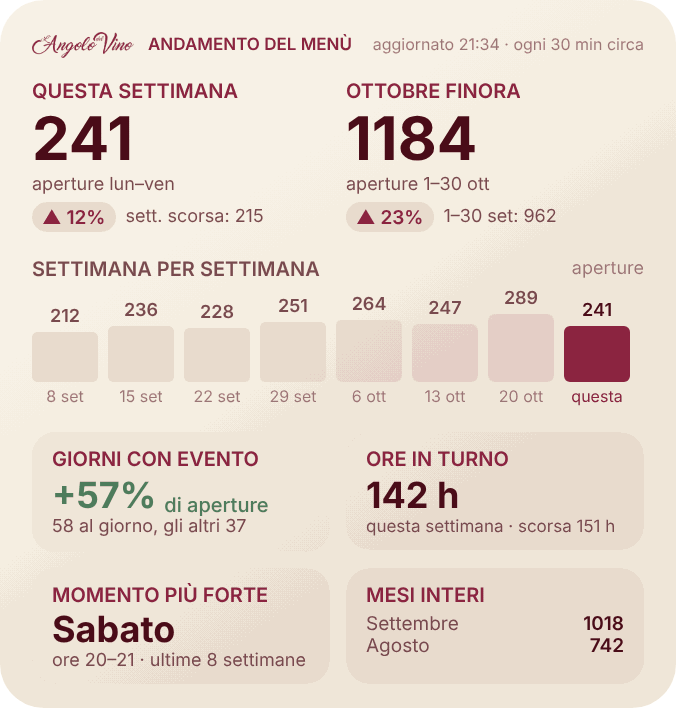
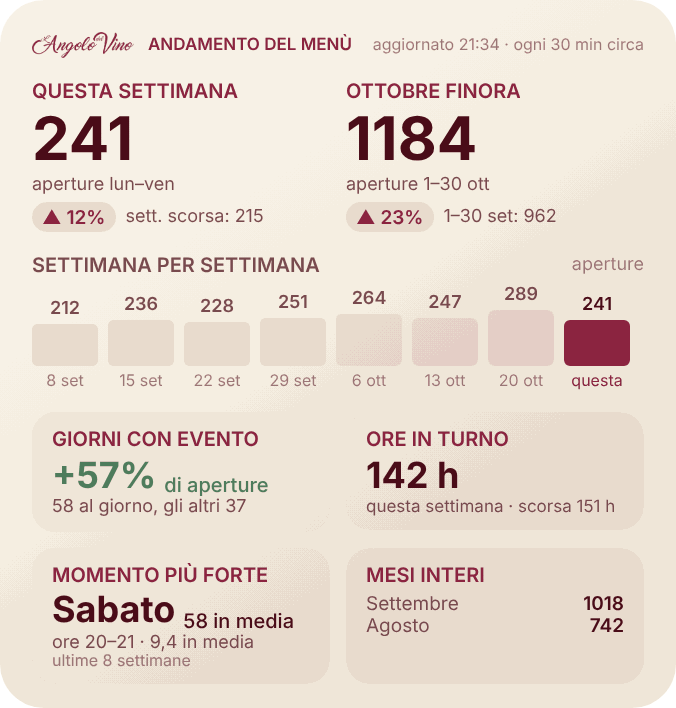
Versione 0.33.2: «Momento più forte» con la media delle aperture
Il giorno più forte si sceglie per media (aperture diviso quante volte quel giorno c'è
stato nel periodo), non per totale; accanto la media, e l'ora più forte con la sua media
al giorno. Sotto, piccolo, il periodo.

Claude-Session: https://claude.ai/code/session_01EJxiVCETf75PpRm3fVmtdi

diff --git a/public/widget/angolo.js b/public/widget/angolo.js
@@ -1568,7 +1568,7 @@ function wAndamento(fam, d, v) {
   // Il mese: l'ultimo finito contro quello prima (mai un mese appena iniziato contro uno intero).
   const m = d.mese;
   blocco(`${m.nome} finora`, m.n, `aperture ${m.dal || m.giorni}`, m, m.giorniPrima, m.confrontoDa ? `confronto da ${m.confrontoDa}` : `${m.nomePrima} non contato`);
-  w.addSpacer(stretto ? 8 : 12);
+  w.addSpacer(stretto ? 6 : 10);
 
   // 2 · Settimana per settimana: il numero sopra ogni barra, la data sotto; quella in corso si chiama «questa».
   const st = riga(w);
@@ -1582,7 +1582,7 @@ function wAndamento(fam, d, v) {
     const n = d.settimane.length;
     const sg = 5;
     const bw = Math.floor((CW - sg * (n - 1)) / n);
-    const hMax = stretto ? 24 : 34;
+    const hMax = stretto ? 20 : 28;
     const max = Math.max(1, ...d.settimane.map((x) => x.n));
     const br = riga(w);
     br.bottomAlignContent();
@@ -1605,7 +1605,7 @@ function wAndamento(fam, d, v) {
       centro(x.inCorso ? "questa" : x.da, F.testo(8), x.inCorso ? C.oro : C.crema3);
     });
   }
-  w.addSpacer(stretto ? 8 : 12);
+  w.addSpacer(stretto ? 6 : 10);
 
   // 3 · Quattro risposte brevi, ognuna con il suo periodo.
   const cella = (r, tit, val, sotto, url, coloreVal = C.crema, unita = "") => {
@@ -1640,7 +1640,10 @@ function wAndamento(fam, d, v) {
   w.addSpacer(gap);
   const b = riga(w);
   b.topAlignContent();
-  const forte = cella(b, "Momento più forte", d.giornoForte || "—", d.oraForte ? `ore ${d.oraForte} · ${d.periodo}` : d.periodo, "/statistiche#quando");
+  // Il giorno e l'ora più forti con la loro media di aperture; sotto, piccolo, il periodo.
+  const oraTesto = d.oraForte ? `ore ${d.oraForte}${d.oraMedia ? ` · ${d.oraMedia} in media` : ""}` : "";
+  const forte = cella(b, "Momento più forte", d.giornoForte || "—", oraTesto || d.periodo, "/statistiche#quando", C.crema, d.giornoMedia ? `${d.giornoMedia} in media` : "");
+  if (oraTesto) testo(forte, d.periodo, F.testo(8), C.crema3);
   b.addSpacer(gap);
   // I mesi finiti, a consuntivo: nome a sinistra, aperture a destra.
   const mi = b.addStack();
@@ -1670,7 +1673,7 @@ function wAndamento(fam, d, v) {
   mi.addSpacer();
   forte.addSpacer();
   // Stessa altezza per i due riquadri della riga (quanto serve a tre mesi, o due sui telefoni piccoli).
-  const alto = treMesi ? 65 : stretto ? 52 : 58;
+  const alto = treMesi ? 74 : stretto ? 62 : 68;
   forte.size = new Size(cw, alto);
   mi.size = new Size(cw, alto);
   return w;

diff --git a/src/lib/widget-data.ts b/src/lib/widget-data.ts
@@ -655,8 +655,16 @@ export async function dataAndamento() {
   const avg = (list: string[]) => (list.length ? Math.round(list.reduce((s, d) => s + count(d), 0) / list.length) : null);
   const conEvento = avg(past.filter((d) => evDays.has(d)));
   const senza = avg(past.filter((d) => !evDays.has(d)));
-  const bestWd = byWd.reduce<{ w: number; n: number } | null>((b, r) => (!b || r._count._all > b.n ? { w: r.weekday, n: r._count._all } : b), null);
+  // Il giorno più forte per MEDIA (aperture diviso quante volte quel giorno c'è stato nel periodo):
+  // con il totale, in un periodo con 5 venerdì e 4 sabati vincerebbe il venerdì anche se rende meno.
+  // L'ora più forte: aperture in quell'ora diviso i giorni del periodo.
+  const quanti = (w: number) => past.filter((d) => weekday(d) === (w + 6) % 7).length;
+  const bestWd = byWd
+    .map((r) => ({ w: r.weekday, media: quanti(r.weekday) ? r._count._all / quanti(r.weekday) : 0 }))
+    .reduce<{ w: number; media: number } | null>((b, r) => (!b || r.media > b.media ? r : b), null);
   const bestHour = byHour.reduce<{ h: number; n: number } | null>((b, r) => (!b || r._count._all > b.n ? { h: r.hour, n: r._count._all } : b), null);
+  // «58», oppure «3,4» sotto le 10 (un'ora può avere poche aperture al giorno).
+  const media = (x: number) => (x >= 10 ? String(Math.round(x)) : x.toFixed(1).replace(".", ",").replace(",0", ""));
   const dalGiorno = since && since >= addDays(mon, -7 * 7) ? `${Number(since.slice(8))} ${MONTHS[Number(since.slice(5, 7)) - 1]}` : null;
   return {
     aggiornato: clockNow(),
@@ -672,8 +680,10 @@ export async function dataAndamento() {
     mesi,
     settimane,
     eventi: conEvento !== null && senza !== null ? { conEvento, senza, delta: delta(conEvento, senza) } : null,
-    giornoForte: bestWd ? DAYS[(bestWd.w + 6) % 7] : null,
+    giornoForte: bestWd && bestWd.media > 0 ? DAYS[(bestWd.w + 6) % 7] : null,
+    giornoMedia: bestWd && bestWd.media > 0 ? media(bestWd.media) : null,
     oraForte: bestHour ? `${bestHour.h}–${bestHour.h + 1}` : null,
+    oraMedia: bestHour && past.length ? media(bestHour.n / past.length) : null,
     ore: { questa: oreQuesta, scorsa: oreScorsa },
     link: "/statistiche",
     linkOre: `/orari?date=${mon}`,
